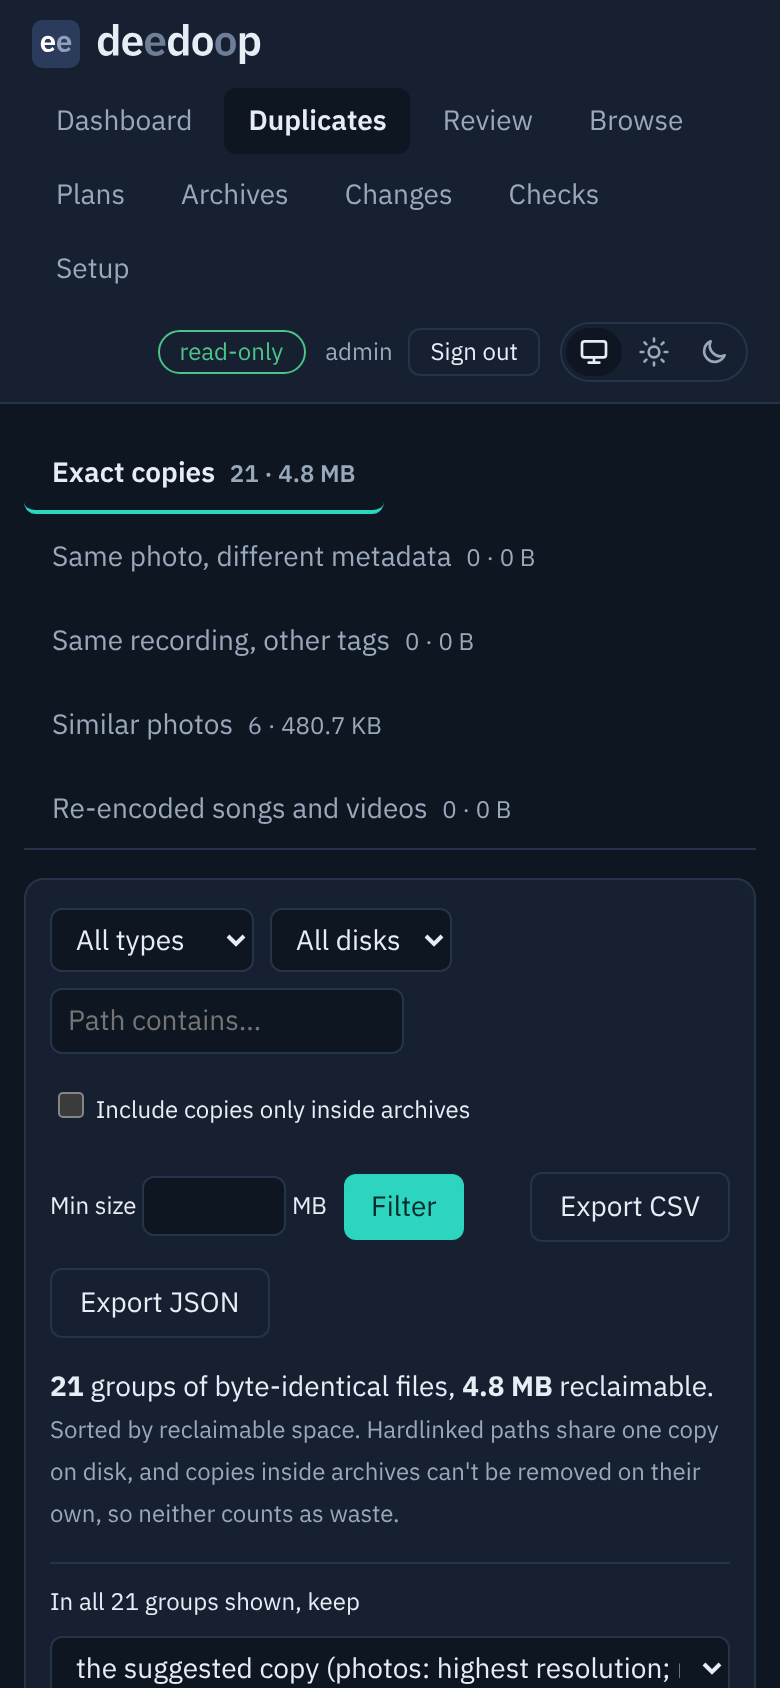
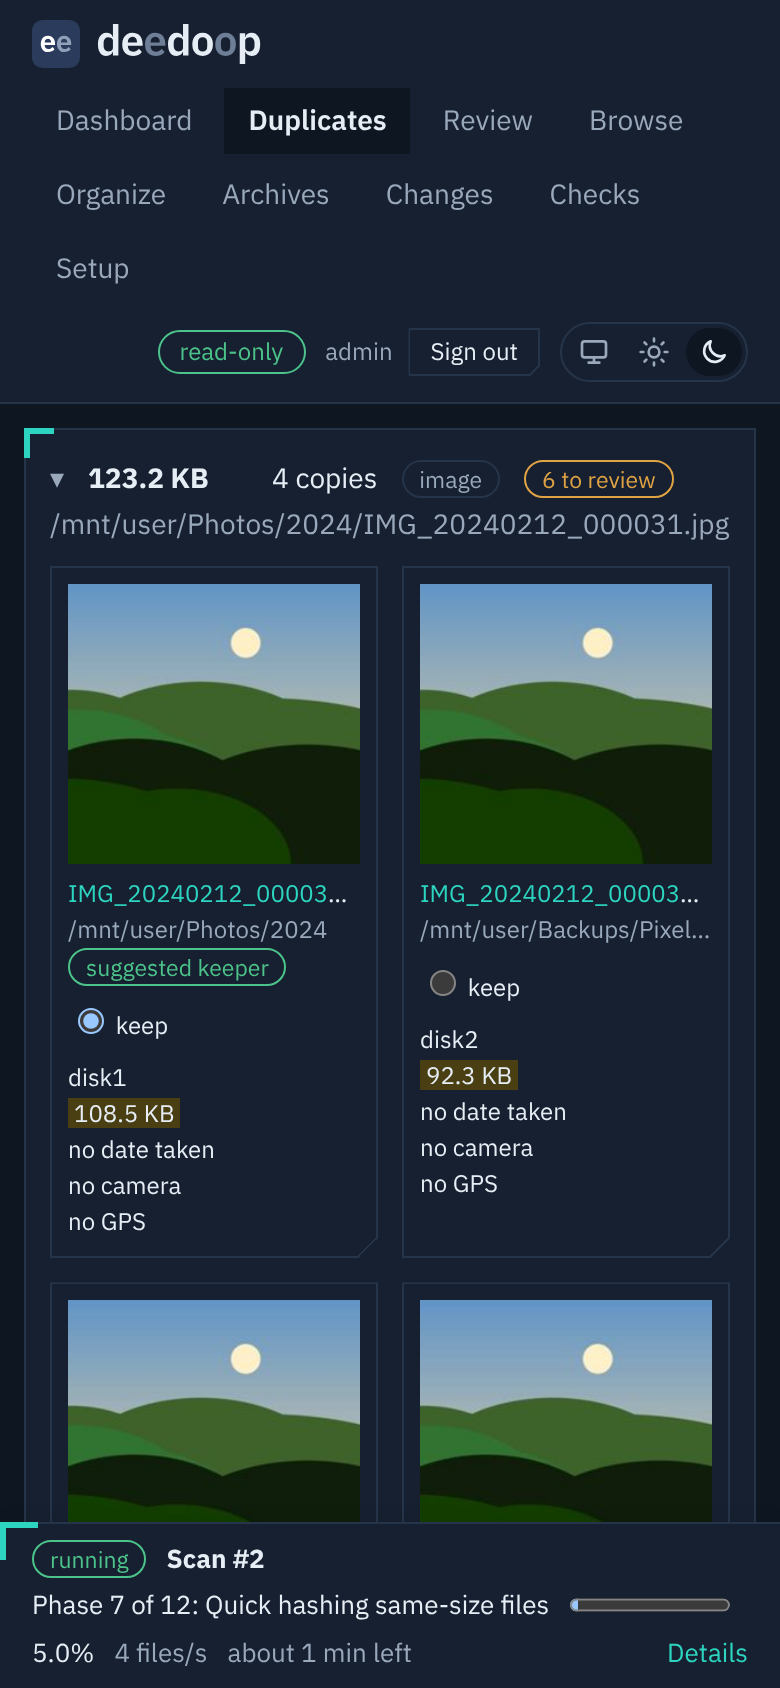
Refresh the README screenshots with the current look (v0.10.2)
- docs/images: dashboard (light), exact copies (dark), similar photos (light)
  and a phone shot (dark) showing the square cards with the corner mark, the
  Organize tab, the bottom status bar of a running scan and the footer label.
- scripts/screenshots.py rebuilds them from a demo array: a fake /mnt is
  scanned with the real engine and Chromium is answered by a signed-in
  TestClient in process. Playwright is only needed for this script.
- CLAUDE.md: any PR that changes how the UI looks refreshes the screenshots.

Claude-Session: https://claude.ai/code/session_0121GC9KR7CFE3nJbLJ1jXqN

diff --git a/scripts/screenshots.py b/scripts/screenshots.py
@@ -1,0 +1,315 @@
+"""Regenerate the README screenshots in docs/images from a demo array.
+
+Any pull request that changes how the UI looks refreshes these (see CLAUDE.md).
+
+    pip install -e '.[dev]' playwright     # playwright is only needed here, not in the image
+    python scripts/screenshots.py          # writes docs/images/*.png
+    python scripts/screenshots.py --out /tmp/shots
+
+It builds a small fake Unraid /mnt in a temporary folder (photos, Storage saver
+copies, a Google Takeout zip, documents and WAV songs), scans it with the real
+engine, then drives Chromium against the app in process: every browser request
+is answered by a signed-in FastAPI TestClient, so no server or port is needed.
+Set CHROMIUM to use another browser binary (default /opt/pw-browsers/chromium
+when it exists, else Playwright's own).
+"""
+
+import argparse
+import io
+import os
+import sys
+import tempfile
+import time
+import wave
+import zipfile
+from pathlib import Path
+
+import numpy as np
+from PIL import Image, ImageDraw, ImageFilter
+
+ROOT = Path(__file__).resolve().parent.parent
+sys.path.insert(0, str(ROOT))
+
+from deedoop import db  # noqa: E402
+from deedoop.config import AppConfig  # noqa: E402
+from deedoop.web.app import create_app  # noqa: E402
+from deedoop.worker import Worker  # noqa: E402
+
+BASE = "http://deedoop.local"
+USER, PASSWORD = "admin", "demo password for screenshots"
+DESKTOP = {"width": 1600, "height": 1125}
+PHONE = {"width": 390, "height": 844}
+
+
+# -- the demo array ----------------------------------------------------------------
+
+def rr(r, lo: int, hi: int) -> int:
+    return int(r.integers(lo, hi))
+
+
+def landscape(seed: int, size=(2400, 1800)) -> Image.Image:
+    """A photo-like landscape: sky gradient, sun, layered hills."""
+    r = np.random.default_rng(seed)
+    w, h = size
+    top = [rr(r, 60, 200) for _ in range(3)]
+    bottom = [rr(r, 150, 255) for _ in range(3)]
+    im = Image.new("RGB", size)
+    d = ImageDraw.Draw(im)
+    for y in range(h):
+        t = y / h
+        d.line([(0, y), (w, y)], fill=tuple(int(a + (b - a) * t) for a, b in zip(top, bottom, strict=True)))
+    sx, sy, sr = rr(r, w // 5, 4 * w // 5), rr(r, h // 12, h // 3), rr(r, w // 40, w // 18)
+    d.ellipse((sx - sr, sy - sr, sx + sr, sy + sr), fill=(255, 240, 200))
+    for layer in range(4):
+        base = h * (0.55 + 0.12 * layer)
+        col = tuple(max(0, c - 25 * layer) for c in (rr(r, 30, 110), rr(r, 80, 150), rr(r, 30, 90)))
+        for _ in range(3):
+            cx, rx, ry = rr(r, -w // 6, w), rr(r, w // 5, w // 2), rr(r, h // 8, h // 4)
+            d.ellipse((cx - rx, base - ry, cx + rx, base + ry * 2), fill=col)
+    return im.filter(ImageFilter.GaussianBlur(2))
+
+
+def jpg(im: Image.Image, quality=92, scale=1.0) -> bytes:
+    if scale != 1.0:
+        im = im.resize((int(im.width * scale), int(im.height * scale)))
+    buf = io.BytesIO()
+    im.save(buf, "JPEG", quality=quality)
+    return buf.getvalue()
+
+
+def put(path: Path, data: bytes, days_ago: float = 0) -> None:
+    path.parent.mkdir(parents=True, exist_ok=True)
+    path.write_bytes(data)
+    t = time.time() - days_ago * 86400
+    os.utime(path, (t, t))
+
+
+def song(path: Path, freq: int, title: str, artist: str, album: str, seconds: int = 40) -> None:
+    """A WAV song (two tones) with RIFF INFO tags; the same notes give the same audio stream."""
+    t = np.arange(seconds * 22050) / 22050
+    pcm = (0.3 * np.sin(2 * np.pi * freq * t) + 0.2 * np.sin(3 * np.pi * freq * t)) * 32767
+    buf = io.BytesIO()
+    with wave.open(buf, "wb") as w:
+        w.setnchannels(1)
+        w.setsampwidth(2)
+        w.setframerate(22050)
+        w.writeframes(pcm.astype("<i2").tobytes())
+    info = b"INFO"
+    for key, value in ((b"INAM", title), (b"IART", artist), (b"IPRD", album)):
+        v = value.encode() + b"\0"
+        v += b"\0" * (len(v) % 2)
+        info += key + len(v).to_bytes(4, "little") + v
+    data = bytearray(buf.getvalue()) + b"LIST" + len(info).to_bytes(4, "little") + info
+    data[4:8] = (len(data) - 8).to_bytes(4, "little")
+    put(path, bytes(data), 900)
+
+
+def build_array(mnt: Path) -> None:
+    shares = ("Photos", "Backups", "Takeout", "Documents", "Music", "Media")
+    for share in shares:
+        (mnt / "user" / share).mkdir(parents=True, exist_ok=True)
+    (mnt / "user0").mkdir(parents=True, exist_ok=True)
+    r = np.random.default_rng(7)
+
+    # Photos: originals on disk1, backups of the phone on disk2, Storage saver copies in Takeout.
+    for i, (day, num) in enumerate([("20190614", 112), ("20200101", 114), ("20210822", 87), ("20230704", 114),
+                                    ("20230705", 9), ("20240212", 31), ("20240930", 55), ("20250418", 3)]):
+        im = landscape(100 + i)
+        name = f"IMG_{day}_000{num:03d}.jpg"
+        original = jpg(im)
+        put(mnt / f"disk1/Photos/{day[:4]}/{name}", original, 900 - i * 90)
+        if i % 2 == 0:
+            put(mnt / f"disk2/Backups/Pixel 4a/DCIM/{name}", original, 800 - i * 90)
+            put(mnt / f"disk3/Backups/Old laptop/Pictures/{day[:4]}/{name}", original, 700 - i * 80)
+        if i in (1, 3, 5):
+            put(mnt / f"disk2/Backups/Pixel 4a/DCIM/{name[:-4]} (1).jpg", jpg(im, quality=85), 600)
+            put(mnt / f"disk3/Takeout/Google Photos/Photos from {day[:4]}/{name}", jpg(im, 55, 0.5), 300)
+            put(mnt / f"disk2/Backups/Old laptop/Pictures/{name}", jpg(im, 70, 0.25), 500)
+
+    # Same photo, other metadata: a comment segment changes the bytes, not the pixels.
+    for i, (day, num) in enumerate([("20190614", 112), ("20210822", 87), ("20240930", 55)]):
+        original = (mnt / f"disk1/Photos/{day[:4]}/IMG_{day}_000{num:03d}.jpg").read_bytes()
+        note = f"Edited on the old laptop #{i}".encode()
+        tagged = original[:2] + b"\xff\xfe" + (len(note) + 2).to_bytes(2, "big") + note + original[2:]
+        put(mnt / f"disk2/Backups/Old laptop/Pictures/Edited/IMG_{day}_{num:03d}_edit.jpg", tagged, 350)
+
+    # A Google Takeout zip: one photo already on disk (Storage saver size), one new.
+    buf = io.BytesIO()
+    with zipfile.ZipFile(buf, "w") as z:
+        z.writestr("Takeout/Google Photos/Photos from 2024/IMG_20240212_000031.jpg", jpg(landscape(105), 55, 0.5))
+        z.writestr("Takeout/Google Photos/Photos from 2024/IMG_20241225_000001.jpg", jpg(landscape(150), 80, 0.5))
+        z.writestr("Takeout/Google Photos/Photos from 2019/IMG_20190614_000112.jpg", jpg(landscape(100)))
+    put(mnt / "disk3/Takeout/takeout-20250301T101010Z-001.zip", buf.getvalue(), 200)
+
+    # Documents and installers: exact copies with other names, in other shares.
+    docs = {
+        "Documents/Taxes/2023 return.pdf": 1_400_000, "Documents/Manuals/NAS manual.pdf": 2_200_000,
+        "Documents/House/Inspection report.pdf": 3_100_000, "Documents/Scans/passport-scan.png": 900_000,
+        "Media/Installers/ubuntu-24.04-desktop-amd64.iso": 24_000_000,
+        "Media/Home videos/2018 Christmas.mp4": 18_000_000, "Media/Home videos/Lake trip.mov": 12_500_000,
+    }
+    for rel, size in docs.items():
+        data = r.bytes(size)
+        share, rest = rel.split("/", 1)
+        put(mnt / f"disk1/{rel}", data, 1000)
+        stem, ext = os.path.splitext(Path(rest).name)
+        put(mnt / f"disk2/Backups/Old laptop/{share}/{stem} (copy){ext}", data, 400)
+        if size > 10_000_000:
+            put(mnt / f"disk3/Backups/USB stick/{Path(rest).name}", data, 300)
+    for i in range(6):
+        data = r.bytes(rr(r, 60_000, 400_000))
+        put(mnt / f"cache/Documents/Notes/note-{i:02d}.txt", data, 50)
+        put(mnt / f"disk2/Backups/Old laptop/Documents/Notes/note-{i:02d} copy.txt", data, 450)
+
+    # Music: the same recording with other tags, and a re-encoded copy.
+    song(mnt / "disk1/Music/Northbound/Open Water/01 Harbour Lights.wav", 440, "Harbour Lights", "Northbound",
+         "Open Water")
+    song(mnt / "disk1/Music/Northbound/Open Water/02 Tidewater.wav", 523, "Tidewater", "Northbound", "Open Water")
+    song(mnt / "disk2/Backups/Old laptop/Music/Harbour Lights.wav", 440, "Harbour Lights (album version)",
+         "Northbound", "Best of")
+
+
+# -- the app in process ------------------------------------------------------------
+
+def make_client(cfg: AppConfig):
+    from fastapi.testclient import TestClient
+
+    from deedoop import auth
+
+    c = db.connect(cfg.db_path)
+    try:
+        if not auth.has_admin(c):
+            auth.create_admin(c, USER, PASSWORD)
+    finally:
+        c.close()
+    client = TestClient(create_app(cfg, worker=Worker(cfg)), base_url=BASE)
+    client.__enter__()
+    r = client.post("/login", data={"username": USER, "password": PASSWORD}, follow_redirects=False)
+    if r.status_code != 303:
+        raise SystemExit(f"sign-in failed: {r.status_code}")
+    c = db.connect(cfg.db_path)
+    try:
+        client.headers["X-CSRF-Token"] = c.execute(
+            "SELECT csrf FROM sessions ORDER BY created_at DESC LIMIT 1").fetchone()[0]
+    finally:
+        c.close()
+    return client
+
+
+def wait_idle(client, timeout=600) -> None:
+    deadline = time.time() + timeout
+    while time.time() < deadline:
+        if client.get("/api/status").json()["active"] is None:
+            return
+        time.sleep(0.3)
+    raise SystemExit("scan did not finish")
+
+
+def busy_scan(client, mnt: Path) -> None:
+    """Start a slowed-down rescan so the status bar has something to show."""
+    from deedoop.control import Control
+
+    r = np.random.default_rng(11)
+    for i in range(400):
+        put(mnt / f"disk2/Backups/Old laptop/Documents/Inbox/scan-{i:03d}.pdf", r.bytes(20_000), 10)
+    real = Control.checkpoint
+
+    def slow(self) -> None:
+        time.sleep(0.25)
+        real(self)
+
+    Control.checkpoint = slow  # type: ignore[method-assign]
+    client.post("/scan/start")
+    deadline = time.time() + 120
+    while time.time() < deadline:
+        s = client.get("/partials/jobbar").text
+        if "Phase" in s and "%" in s:
+            time.sleep(3)  # let the rate and ETA settle
+            return
+        time.sleep(0.5)
+
+
+def prepare(work: Path):
+    mnt = work / "mnt"
+    build_array(mnt)
+    cfg = AppConfig(config_dir=work / "config", mnt=mnt)
+    db.init(cfg.db_path)
+    c = db.connect(cfg.db_path)
+    try:
+        db.set_settings(c, {"shares": ["Photos", "Backups", "Takeout", "Documents", "Music", "Media"],
+                            "takeout_paths": [str(mnt / "user/Takeout")]})
+    finally:
+        c.close()
+    client = make_client(cfg)
+    client.post("/scan/start")
+    wait_idle(client)
+    return client
+
+
+def shoot(client, out: Path, work: Path) -> None:
+    from playwright.sync_api import sync_playwright
+
+    def forward(route, request):
+        path = request.url[len(BASE):] or "/"
+        headers = {k: v for k, v in request.headers.items() if k.lower() not in ("cookie", "host")}
+        r = client.request(request.method, path, headers=headers, content=request.post_data_buffer,
+                           follow_redirects=False)
+        body = r.content
+        if r.headers.get("content-type", "").startswith("text/html"):
+            body = body.replace(str(work).encode(), b"")  # show /mnt/..., not the temporary folder
+        headers = {k: v for k, v in r.headers.items() if k.lower() != "content-length"}
+        route.fulfill(status=r.status_code, headers=headers, body=body)
+
+    exe = os.environ.get("CHROMIUM") or ("/opt/pw-browsers/chromium" if Path("/opt/pw-browsers/chromium").exists()
+                                         else None)
+    with sync_playwright() as p:
+        browser = p.chromium.launch(executable_path=exe) if exe else p.chromium.launch()
+
+        def page(theme: str, viewport: dict, scale: int = 2, mobile: bool = False):
+            ctx = browser.new_context(viewport=viewport, device_scale_factor=scale, is_mobile=mobile,
+                                      has_touch=mobile, color_scheme=theme)
+            ctx.add_init_script(f"try {{ localStorage.setItem('deedoop-theme', '{theme}') }} catch (e) {{}}")
+            ctx.route(f"{BASE}/**", forward)
+            return ctx, ctx.new_page()
+
+        def snap(name: str, url: str, theme: str, viewport=DESKTOP, scale=1, mobile=False, scroll_to=""):
+            ctx, pg = page(theme, viewport, scale, mobile)
+            pg.goto(BASE + url)
+            pg.wait_for_load_state("networkidle")
+            if scroll_to:
+                pg.locator(scroll_to).first.evaluate("e => { const h = document.querySelector('header');"
+                    " const top = h && getComputedStyle(h).position === 'sticky' ? h.offsetHeight : 0;"
+                    " window.scrollTo(0, e.getBoundingClientRect().top + window.scrollY - top - 12); }")
+                pg.wait_for_load_state("networkidle")
+            pg.evaluate("document.fonts.ready")
+            pg.screenshot(path=str(out / name))
+            ctx.close()
+            print("wrote", out / name)
+
+        snap("dashboard-light.png", "/", "light")
+        busy_scan(client, work / "mnt")  # the rest show the status bar of a running scan
+        snap("duplicates-dark.png", "/duplicates", "dark")
+        snap("similar-light.png", "/duplicates?method=similar", "light")
+        snap("phone-dark.png", "/duplicates?method=similar", "dark", PHONE, scale=2, mobile=True,
+             scroll_to="details.group")
+        client.post("/scan/stop")
+        browser.close()
+
+
+def main() -> None:
+    ap = argparse.ArgumentParser(description=__doc__.splitlines()[0])
+    ap.add_argument("--out", type=Path, default=ROOT / "docs/images")
+    ap.add_argument("--keep", action="store_true", help="keep the demo array and print where it is")
+    args = ap.parse_args()
+    args.out.mkdir(parents=True, exist_ok=True)
+    with tempfile.TemporaryDirectory(prefix="deedoop-demo-", delete=not args.keep) as tmp:
+        work = Path(tmp)
+        client = prepare(work)
+        shoot(client, args.out, work)
+        client.__exit__(None, None, None)
+        if args.keep:
+            print("demo array kept in", work)
+
+
+if __name__ == "__main__":
+    main()

diff --git a/deedoop/__init__.py b/deedoop/__init__.py
@@ -1,3 +1,3 @@
 """deedoop: dedupe your hoard, safely."""
 
-__version__ = "0.10.1"
+__version__ = "0.10.2"

diff --git a/README.md b/README.md
@@ -13,11 +13,11 @@ deedoop finds the duplicates other tools miss on your Unraid server: identical f
 
 <p>
   <img src="docs/images/dashboard-light.png" alt="Dashboard after a scan: reclaimable space, exact copies, similar photos and disks" width="49%">
-  <img src="docs/images/duplicates-dark.png" alt="Exact copies in the dark theme, with the copy to keep selected in each group" width="49%">
+  <img src="docs/images/duplicates-dark.png" alt="Exact copies in the dark theme, with the copy to keep selected in each group and a running scan in the status bar" width="49%">
 </p>
 <p>
   <img src="docs/images/similar-light.png" alt="Similar photos: resized and recompressed copies side by side, with a suggested keeper" width="73%">
-  <img src="docs/images/phone-dark.png" alt="Duplicates on a phone in the dark theme" width="24%">
+  <img src="docs/images/phone-dark.png" alt="Similar photos on a phone in the dark theme, with the scan status bar" width="24%">
 </p>
 
 ## Status: milestone 8

diff --git a/CLAUDE.md b/CLAUDE.md
@@ -18,6 +18,8 @@ are not optional.
   `static/app.js`.
 - Every security fix ships with a test that fails without it.
 - Every screen works in light and dark themes and on a phone.
+- Any PR that changes how the UI looks refreshes the affected screenshots
+  (README, `docs/images`): run `python scripts/screenshots.py` and say so in the PR.
 - Bump the version in `pyproject.toml` and `deedoop/__init__.py` in every PR that
   changes the image, so the footer shows which build is running.
 - Brand: Ledger palette and the deedoop logo (second e and o in the greyed `--copy` tone).
